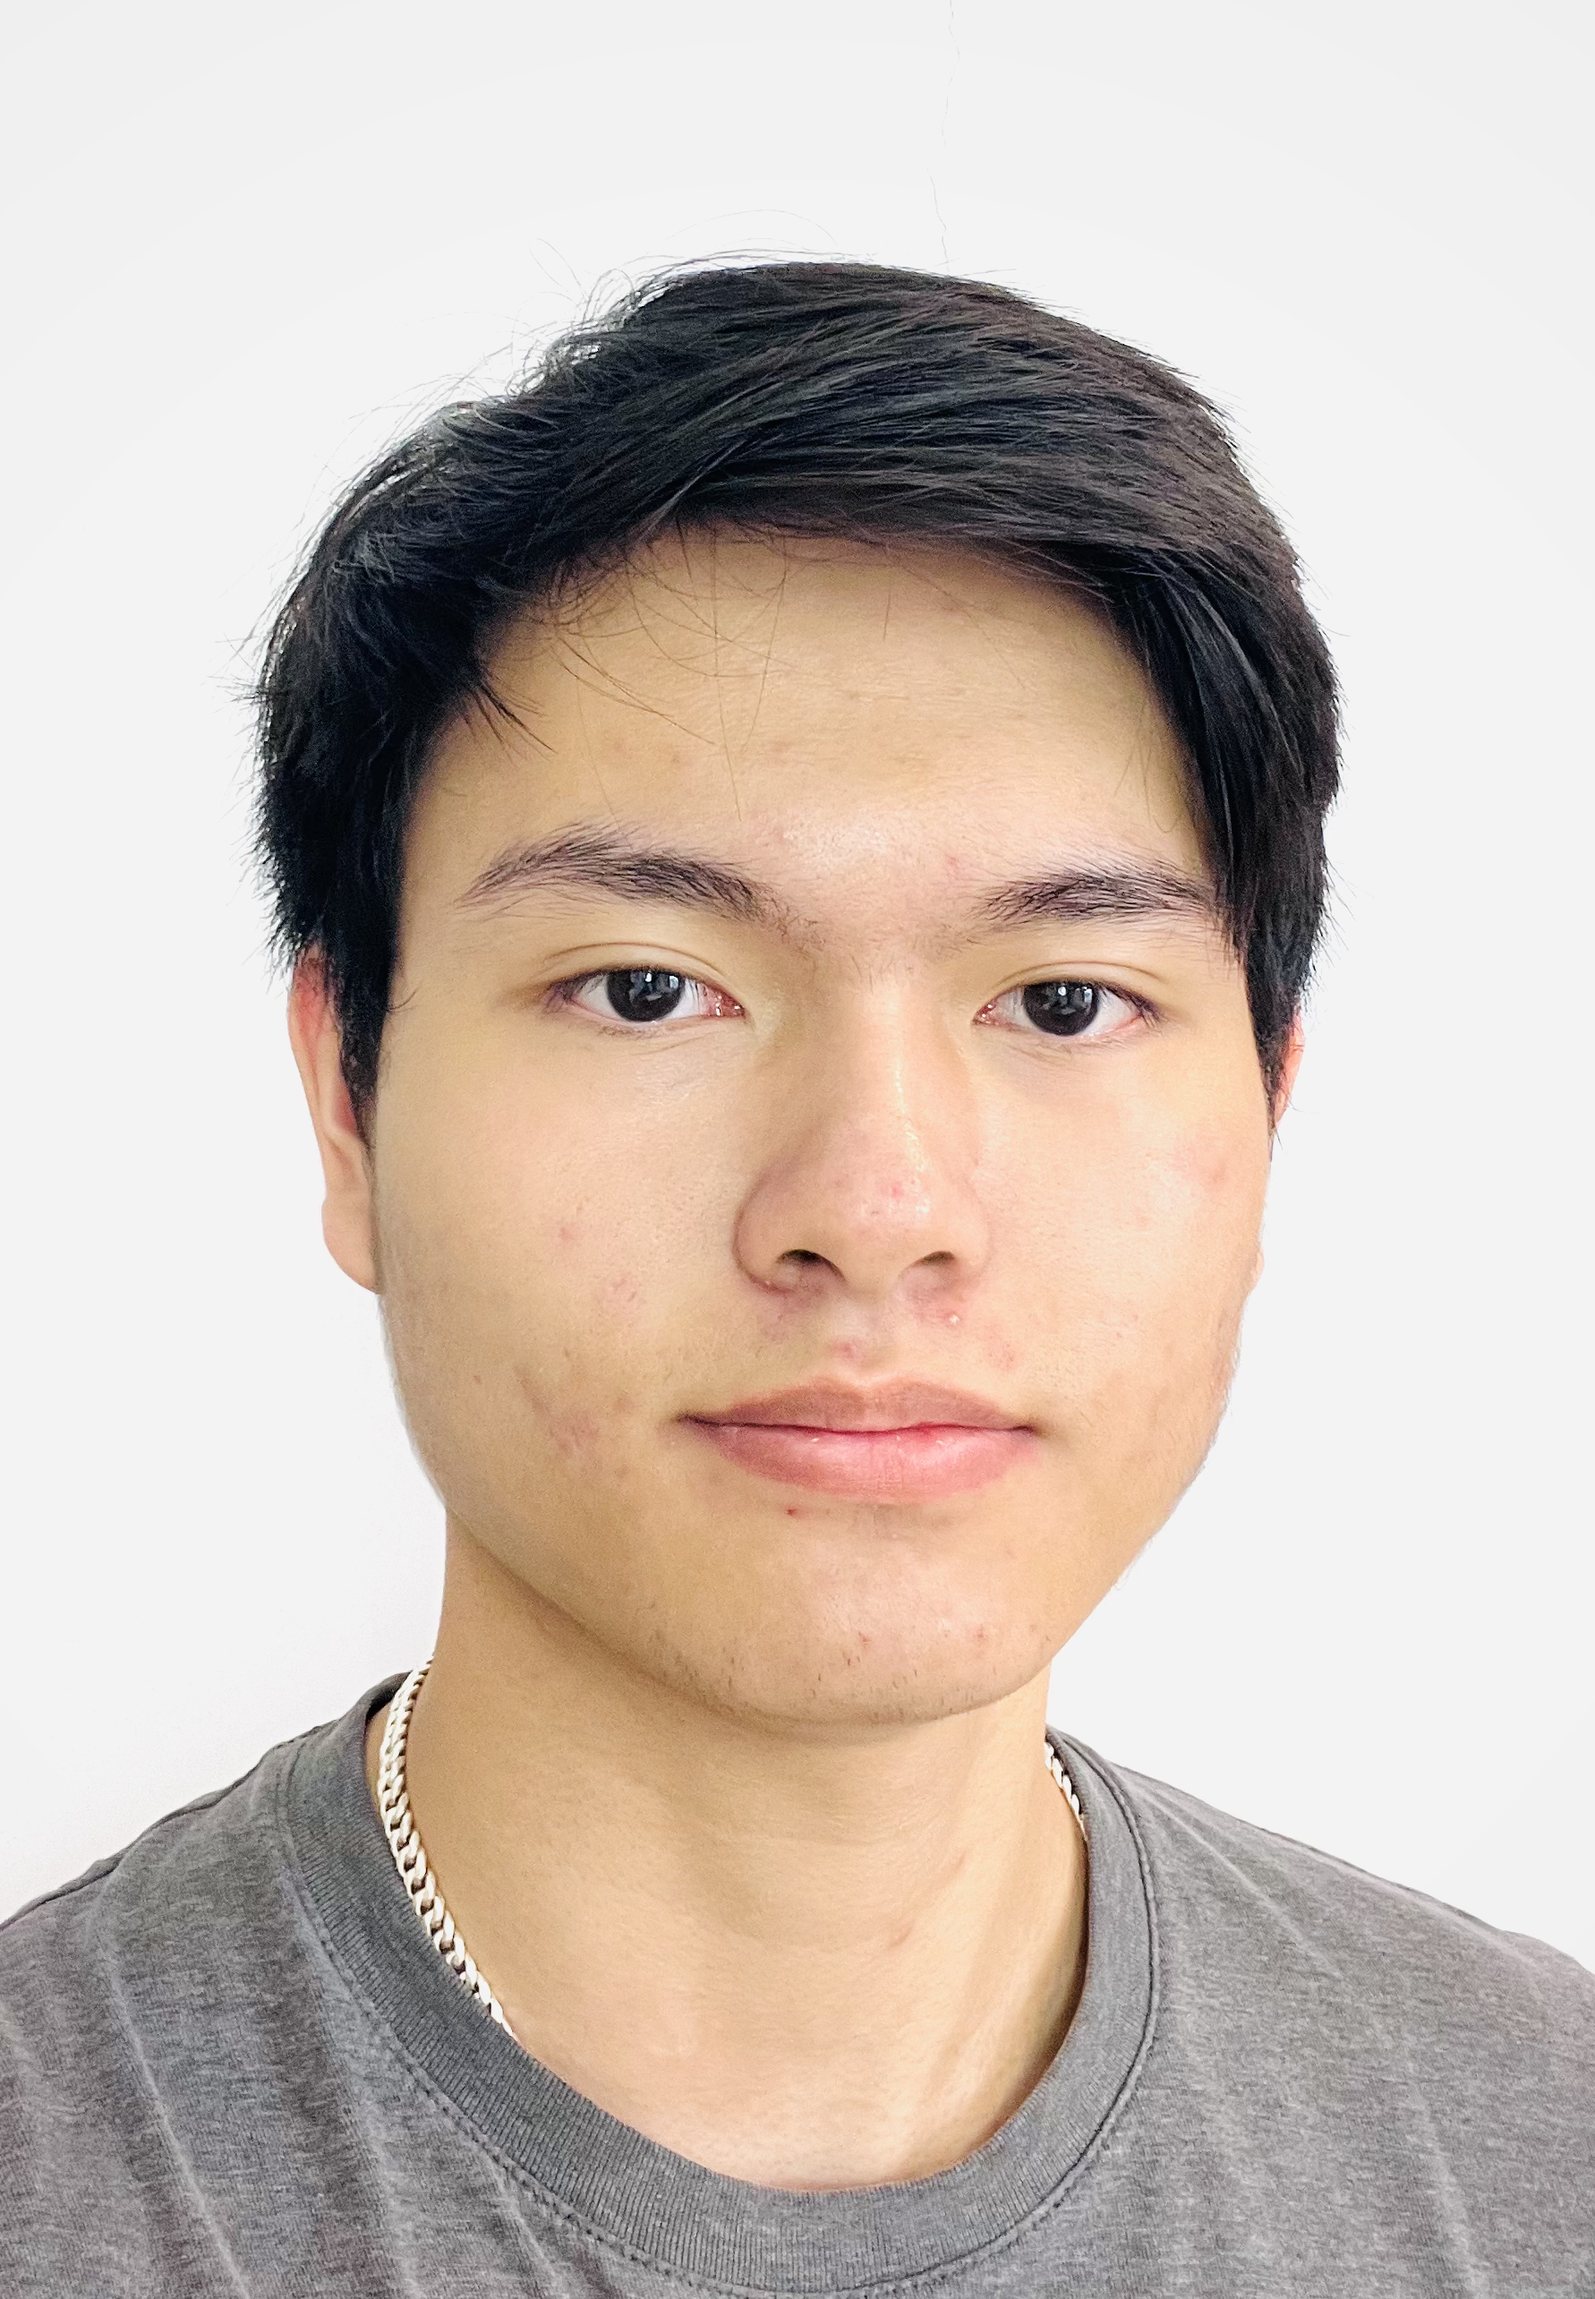
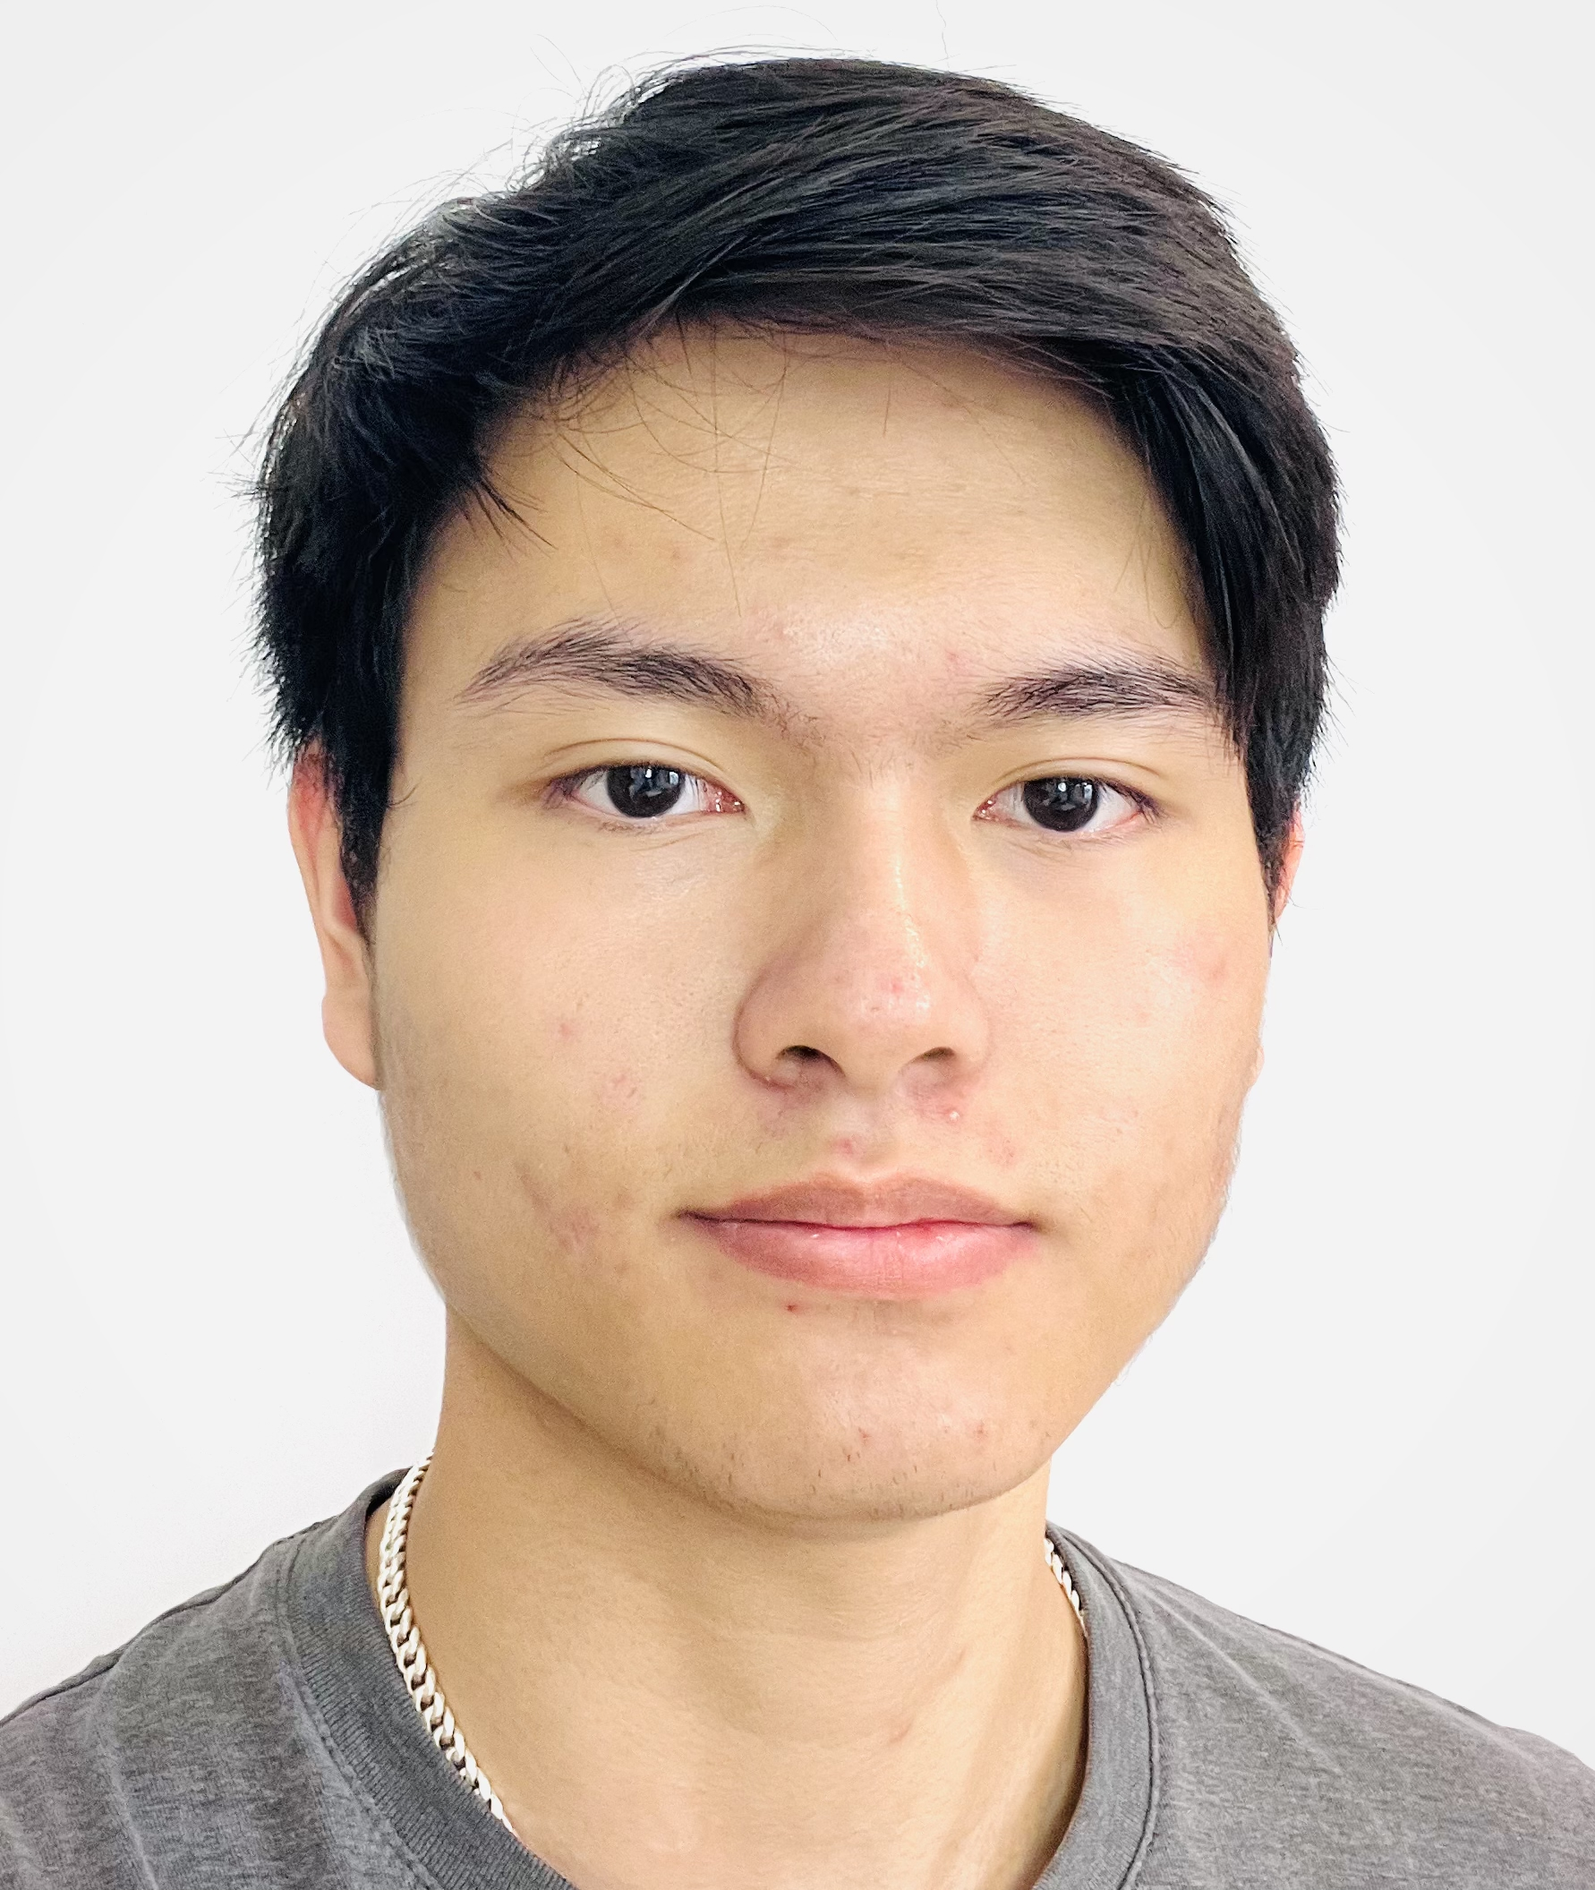
build the website with the latest source data - Tue Jul  8 13:37:33 UTC 2025

diff --git a/docs/members.html b/docs/members.html
@@ -546,7 +546,7 @@ Uncovering Insights from Large-Scale Datasets</p>
                     
                         <div class="row-card-item">
     <div class="member">
-        <div class="member-image" style="background-image:url()">
+        <div class="member-image" style="background-image:url(/assets/images/members/2025SummerIntern_SuaYun.jpeg)">
         </div>
         <div class="member-text">
             <h4 class="member-name">Sua Yun</h4>
